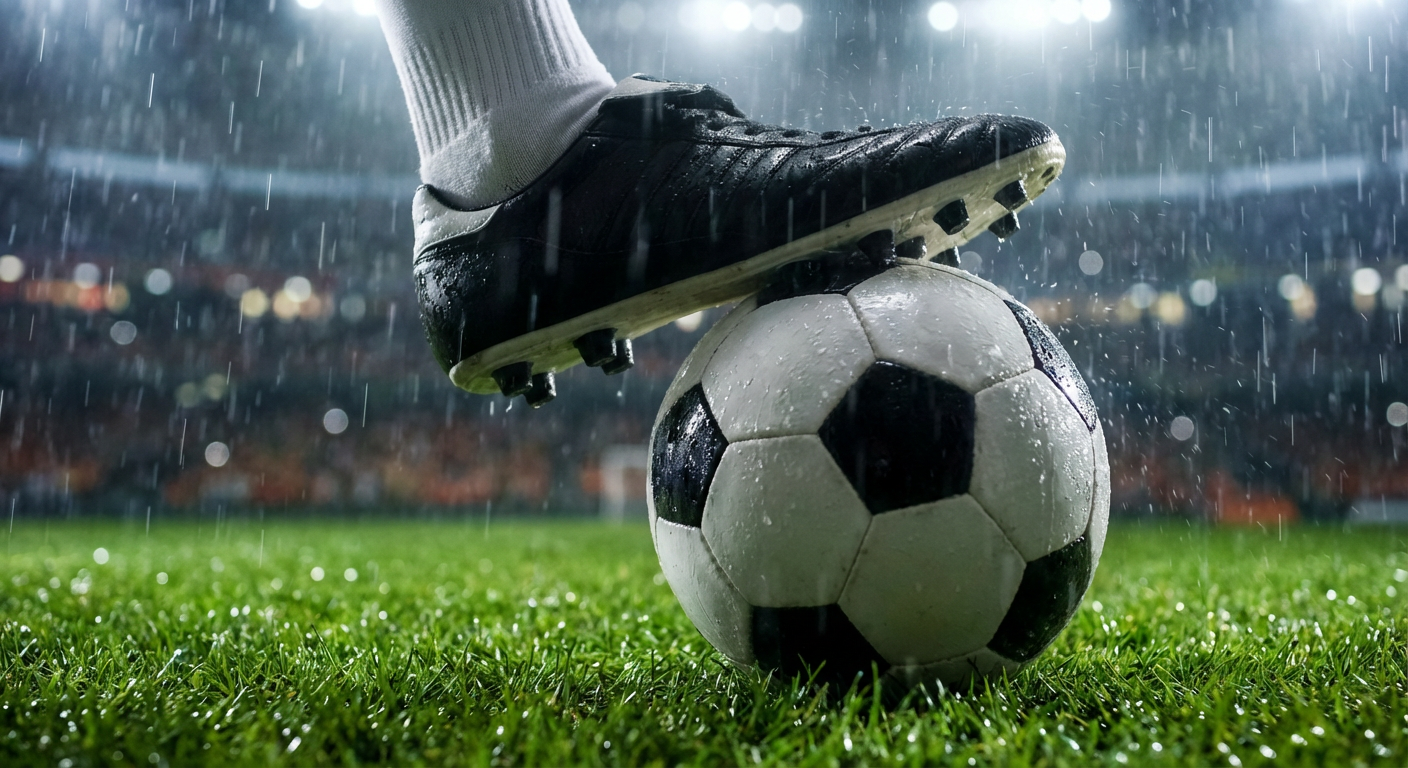
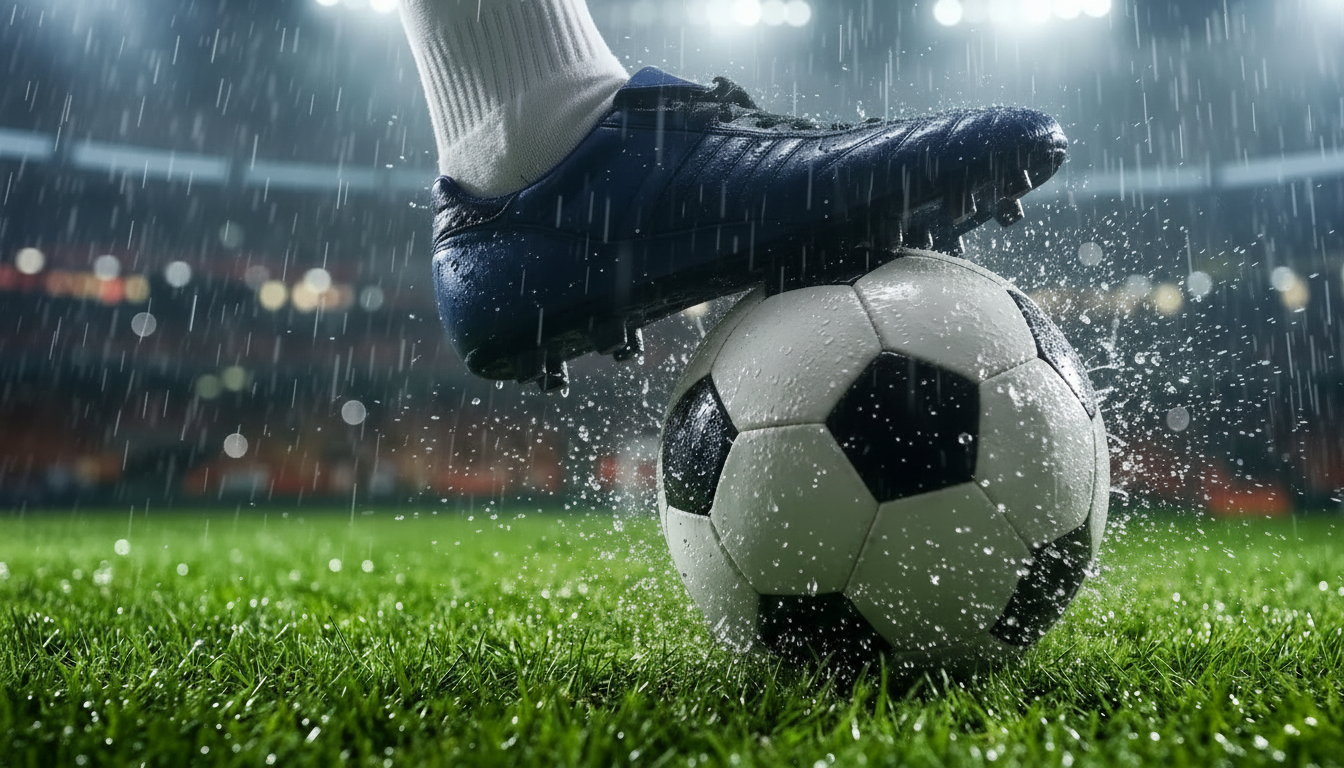
version79
pantalla de carga

diff --git a/pichangaya/resources/views/navigation-menu.blade.php b/pichangaya/resources/views/navigation-menu.blade.php
@@ -48,7 +48,10 @@
                 <div class="shrink-0 flex items-center">
                     {{-- ID: tour-logo mantenido --}}
                     <a href="{{ route('home') }}" id="tour-logo" class="flex items-center"> 
-                        <x-application-mark class="block h-12 w-auto text-white fill-current transition hover:scale-105" />
+                        {{-- 🟢 CAMBIO SOLO AQUI: NUEVO LOGO --}}
+                        <img src="{{ asset('images/Pichanga-_1_.webp') }}" 
+                             alt="PichangaYa Logo" 
+                             class="block h-16 w-auto object-contain transition hover:scale-105 drop-shadow-md">
                     </a>
                 </div>
 
@@ -61,7 +64,7 @@
 
                     @auth
                         <div class="relative group">
-                            {{-- ✅ CAMBIO IMPORTANTE: ID actualizado a 'tour-mis-reservas' para coincidir con app.js --}}
+                            {{-- ID actualizado a 'tour-mis-reservas' --}}
                             <a href="{{ route('reservas.user.index') }}" id="tour-mis-reservas" class="inline-flex items-center px-1 pt-1 text-sm font-medium leading-5 transition duration-150 ease-in-out {{ request()->routeIs('reservas.user.*') ? 'text-green-400 border-b-2 border-green-400' : 'text-white hover:text-green-300' }}">
                                 {{ __('Mis Reservas') }}
                             </a>
@@ -291,13 +294,11 @@
                                 <div class="border-t border-gray-200 dark:border-gray-700"></div>
                                 
                                 <form method="POST" action="{{ route('logout') }}" x-data>
-    @csrf
-
-    <x-dropdown-link href="{{ route('logout') }}"
-             @click.prevent="$root.submit();">
-        {{ __('Cerrar Sesión') }}
-    </x-dropdown-link>
-    </form>
+                                    @csrf
+                                    <x-dropdown-link href="{{ route('logout') }}" @click.prevent="$root.submit();">
+                                        {{ __('Cerrar Sesión') }}
+                                    </x-dropdown-link>
+                                </form>
                             </x-slot>
                         </x-dropdown>
                     </div>
@@ -377,7 +378,7 @@
         </div>
     </div>
 
-    {{-- 🟢 SCRIPT DE TEMPORIZADOR MEJORADO --}}
+    {{-- SCRIPT DE TEMPORIZADOR MEJORADO --}}
     <script>
         document.addEventListener('DOMContentLoaded', function() {
             const timerElements = document.querySelectorAll('.notif-timer');
@@ -393,7 +394,6 @@
                     
                     if (distance < 0) {
                         el.innerHTML = "EXPIRADO";
-                        // Estilos de expiración
                         el.classList.remove('text-green-400', 'animate-pulse', 'drop-shadow-[0_0_8px_rgba(74,222,128,0.6)]');
                         el.classList.add('text-red-600', 'drop-shadow-[0_0_8px_rgba(220,38,38,0.6)]'); 
                         return;
@@ -407,7 +407,6 @@
                     
                     el.innerHTML = `${formattedMin}:${formattedSec}`;
 
-                    // Alerta: menos de 2 minutos
                     if(minutes < 2) {
                         el.classList.remove('text-green-400', 'drop-shadow-[0_0_8px_rgba(74,222,128,0.6)]');
                         el.classList.add('text-red-500', 'animate-pulse', 'drop-shadow-[0_0_8px_rgba(239,68,68,0.6)]');

diff --git a/pichangaya/resources/views/layouts/guest.blade.php b/pichangaya/resources/views/layouts/guest.blade.php
@@ -17,12 +17,54 @@
         </script>
 
         @livewireStyles
+        
+        <style>
+            /* Estilos para el preloader */
+            #global-loader {
+                transition: opacity 0.5s ease-out, visibility 0.5s ease-out;
+            }
+            .loader-hidden {
+                opacity: 0;
+                visibility: hidden;
+            }
+        </style>
     </head>
     <body>
+        {{-- PANTALLA DE CARGA (PRELOADER) --}}
+        <div id="global-loader" class="fixed inset-0 z-[9999] bg-gray-100 flex flex-col items-center justify-center">
+            <div class="relative">
+                <img src="{{ asset('images/Pichanga-_1_.webp') }}" 
+                     alt="Cargando..." 
+                     class="w-32 h-32 object-contain animate-bounce drop-shadow-2xl">
+                <div class="absolute -bottom-4 left-1/2 transform -translate-x-1/2 w-16 h-2 bg-black/10 rounded-[100%] blur-sm animate-pulse"></div>
+            </div>
+            <p class="mt-4 text-green-600 font-bold text-sm tracking-widest animate-pulse">CARGANDO...</p>
+        </div>
+
         <div class="font-sans text-gray-900 antialiased bg-gray-100">
             {{ $slot }}
         </div>
 
         @livewireScripts
+
+        <script>
+            // Lógica del Preloader
+            window.addEventListener('load', function() {
+                const loader = document.getElementById('global-loader');
+                if (loader) {
+                    setTimeout(() => {
+                        loader.classList.add('loader-hidden');
+                    }, 500); // Pequeño retardo para suavidad
+                }
+            });
+
+            // Mostrar loader al salir de la página (navegar)
+            window.addEventListener('beforeunload', function () {
+                const loader = document.getElementById('global-loader');
+                if (loader) {
+                    loader.classList.remove('loader-hidden');
+                }
+            });
+        </script>
     </body>
 </html>
